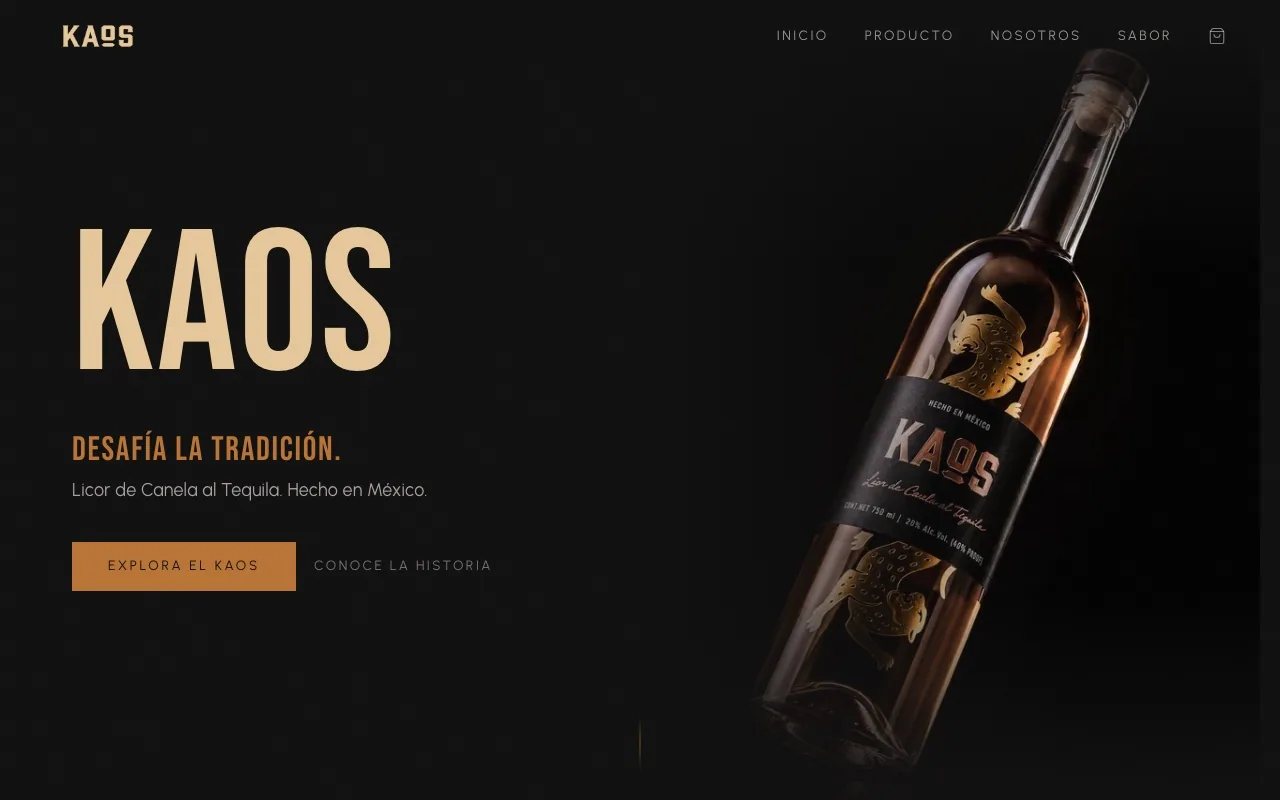
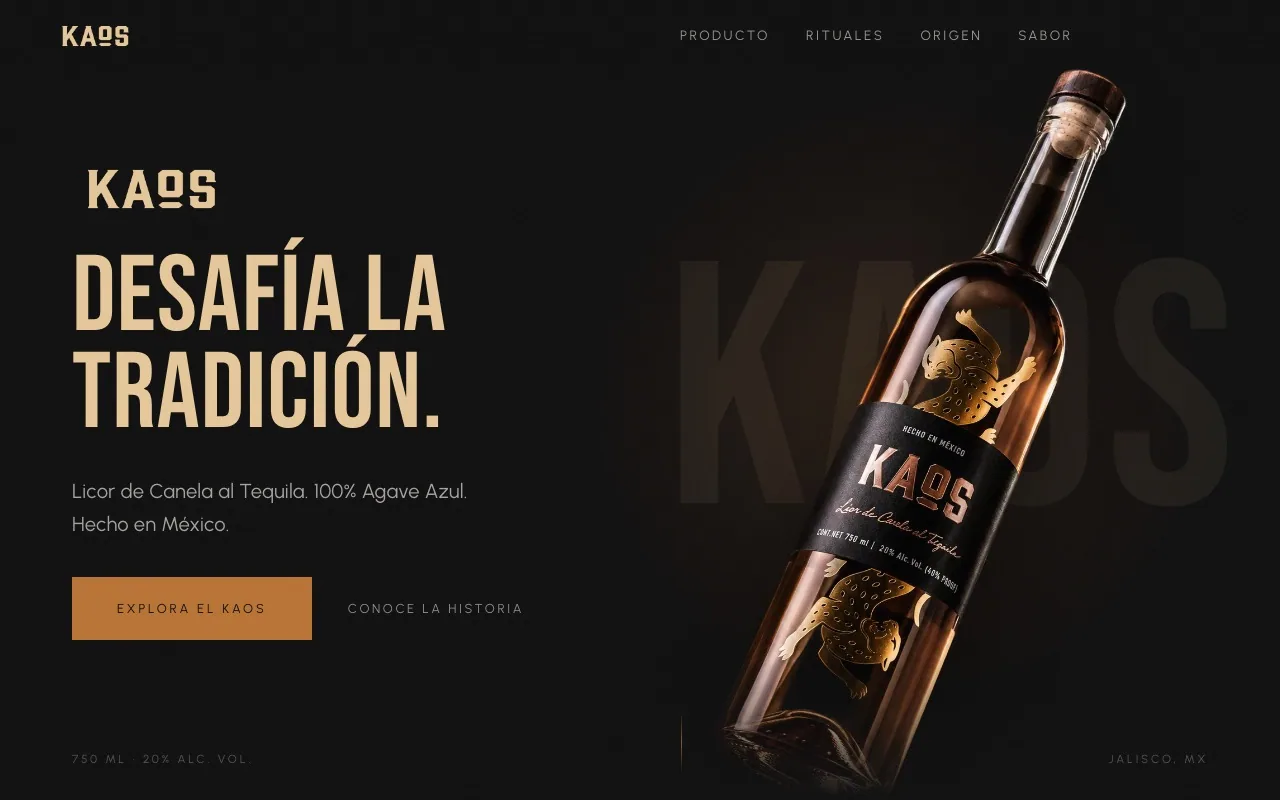
feat: Tequila KAOS refreshed and featured, founder card reads YC Alumni
- Tequila KAOS: new cover and gallery from the 2026 site, featured as
  the last card so it peeks left of midflight (12 featured).
- Founder card role is two lines: Engineer & founder / YC Alumni.

diff --git a/src/data/projects.ts b/src/data/projects.ts
@@ -303,6 +303,31 @@ export const projects: Project[] = [
     featured: true,
   },
   {
+    id: "tequilaKaos",
+    slug: "tequila-kaos",
+    title: { en: "Tequila KAOS", es: "Tequila KAOS" },
+    summary: { en: "Product and web consulting for a tequila brand, from strategy to launch.", es: "Consultoría de producto y web para una marca de tequila, de estrategia a lanzamiento." },
+    description: { en: "I led the digital strategy and web experience for KAOS, a Mexican cinnamon–tequila liqueur brand (\"Licor de Canela al Tequila, Hecho en México\"). I guided the brand identity, UX, and website implementation so the online presence matched the premium, tradition-defying positioning of the product.", es: "Lideré la estrategia digital y la experiencia web de KAOS, una marca mexicana de licor de canela al tequila (\"Hecho en México\"). Guié la identidad de marca, el UX y la implementación del sitio para que la presencia en línea reflejara el posicionamiento premium y desafiante de la marca." },
+    category: { en: "Consulting", es: "Consultoría" },
+    categories: [
+      { en: "Web Design", es: "Diseño Web" },
+      { en: "Brand Strategy", es: "Estrategia de Marca" },
+      { en: "React", es: "React" },
+    ],
+    year: 2024,
+    role: { en: "Product & Web Consultant", es: "Consultor de Producto y Web" },
+    cover: { src: "/projects/tequila-kaos.webp", width: 1280, height: 800 },
+    coverAlt: { en: "Tequila KAOS website hero showing the KAOS bottle and the tagline 'Desafía la tradición'", es: "Hero del sitio de Tequila KAOS con la botella y el lema 'Desafía la tradición'" },
+    gallery: [
+      { src: "/projects/tequila-kaos.webp", width: 1280, height: 800 },
+      { src: "/projects/tequila-kaos-producto.webp", width: 1280, height: 800 },
+      { src: "/projects/tequila-kaos-rituales.webp", width: 1280, height: 800 },
+      { src: "/projects/tequila-kaos-origen.webp", width: 1280, height: 800 },
+    ],
+    links: { live: "https://tequilakaos.com/" },
+    featured: true,
+  },
+  {
     id: "siteLog",
     slug: "site-log",
     title: { en: "SiteLog", es: "SiteLog" },
@@ -323,28 +348,6 @@ export const projects: Project[] = [
     gallery: [
       { src: "/projects/sitelog.webp", width: 1200, height: 720 },
     ],
-    featured: false,
-  },
-  {
-    id: "tequilaKaos",
-    slug: "tequila-kaos",
-    title: { en: "Tequila KAOS", es: "Tequila KAOS" },
-    summary: { en: "Product and web consulting for a tequila brand, from strategy to launch.", es: "Consultoría de producto y web para una marca de tequila, de estrategia a lanzamiento." },
-    description: { en: "I led the digital strategy and web experience for KAOS, a Mexican cinnamon–tequila liqueur brand (\"Licor de Canela al Tequila, Hecho en México\"). I guided the brand identity, UX, and website implementation so the online presence matched the premium, tradition-defying positioning of the product.", es: "Lideré la estrategia digital y la experiencia web de KAOS, una marca mexicana de licor de canela al tequila (\"Hecho en México\"). Guié la identidad de marca, el UX y la implementación del sitio para que la presencia en línea reflejara el posicionamiento premium y desafiante de la marca." },
-    category: { en: "Consulting", es: "Consultoría" },
-    categories: [
-      { en: "Web Design", es: "Diseño Web" },
-      { en: "Brand Strategy", es: "Estrategia de Marca" },
-      { en: "React", es: "React" },
-    ],
-    year: 2024,
-    role: { en: "Product & Web Consultant", es: "Consultor de Producto y Web" },
-    cover: { src: "/projects/tequila-kaos.webp", width: 1280, height: 800 },
-    coverAlt: { en: "Tequila KAOS website hero showing the KAOS bottle and the tagline 'Desafía la tradición'", es: "Hero del sitio de Tequila KAOS con la botella y el lema 'Desafía la tradición'" },
-    gallery: [
-      { src: "/projects/tequila-kaos.webp", width: 1280, height: 800 },
-    ],
-    links: { live: "https://tequilakaos.com/" },
     featured: false,
   },
   {

diff --git a/src/components/sections/Founders/FounderCard.tsx b/src/components/sections/Founders/FounderCard.tsx
@@ -59,7 +59,15 @@ export function FounderCard({
           </span>
         ))}
       </h3>
-      <p className="text-cream text-center text-base">{l(founder.role)}</p>
+      <p className="text-cream text-center text-base">
+        {l(founder.role)
+          .split('\n')
+          .map((line) => (
+            <span key={line} className="block">
+              {line}
+            </span>
+          ))}
+      </p>
       <ul className="mt-auto flex flex-wrap items-center justify-center gap-x-5 gap-y-2 pt-2">
         {founder.links.map((link) => (
           <li key={link.icon}>

diff --git a/src/data/founders.ts b/src/data/founders.ts
@@ -22,8 +22,8 @@ export const founders: Founder[] = [
     id: 'mike',
     name: 'Mike\nAlvarado',
     role: {
-      en: 'Engineer & founder · Kodda, YC S21 · building midflight',
-      es: 'Ingeniero y fundador · Kodda, YC S21 · construyendo midflight',
+      en: 'Engineer & founder\nYC Alumni',
+      es: 'Ingeniero y fundador\nYC Alumni',
     },
     portrait: '/art/portrait-mike.webp',
     portraitAlt: { en: 'Portrait of Mike Alvarado', es: 'Retrato de Mike Alvarado' },

diff --git a/e2e/carousels.spec.ts b/e2e/carousels.spec.ts
@@ -71,7 +71,7 @@ test('the stacked list below tab: opens every card directly', async ({ page }) =
   await page.waitForTimeout(700)
 
   const cards = page.locator('[data-section="work"] button[aria-label^="Open project"]')
-  await expect(cards).toHaveCount(11)
+  await expect(cards).toHaveCount(12)
   await expect(
     page.locator('[data-section="work"] button[aria-label^="Go to project"]'),
   ).toHaveCount(0)
